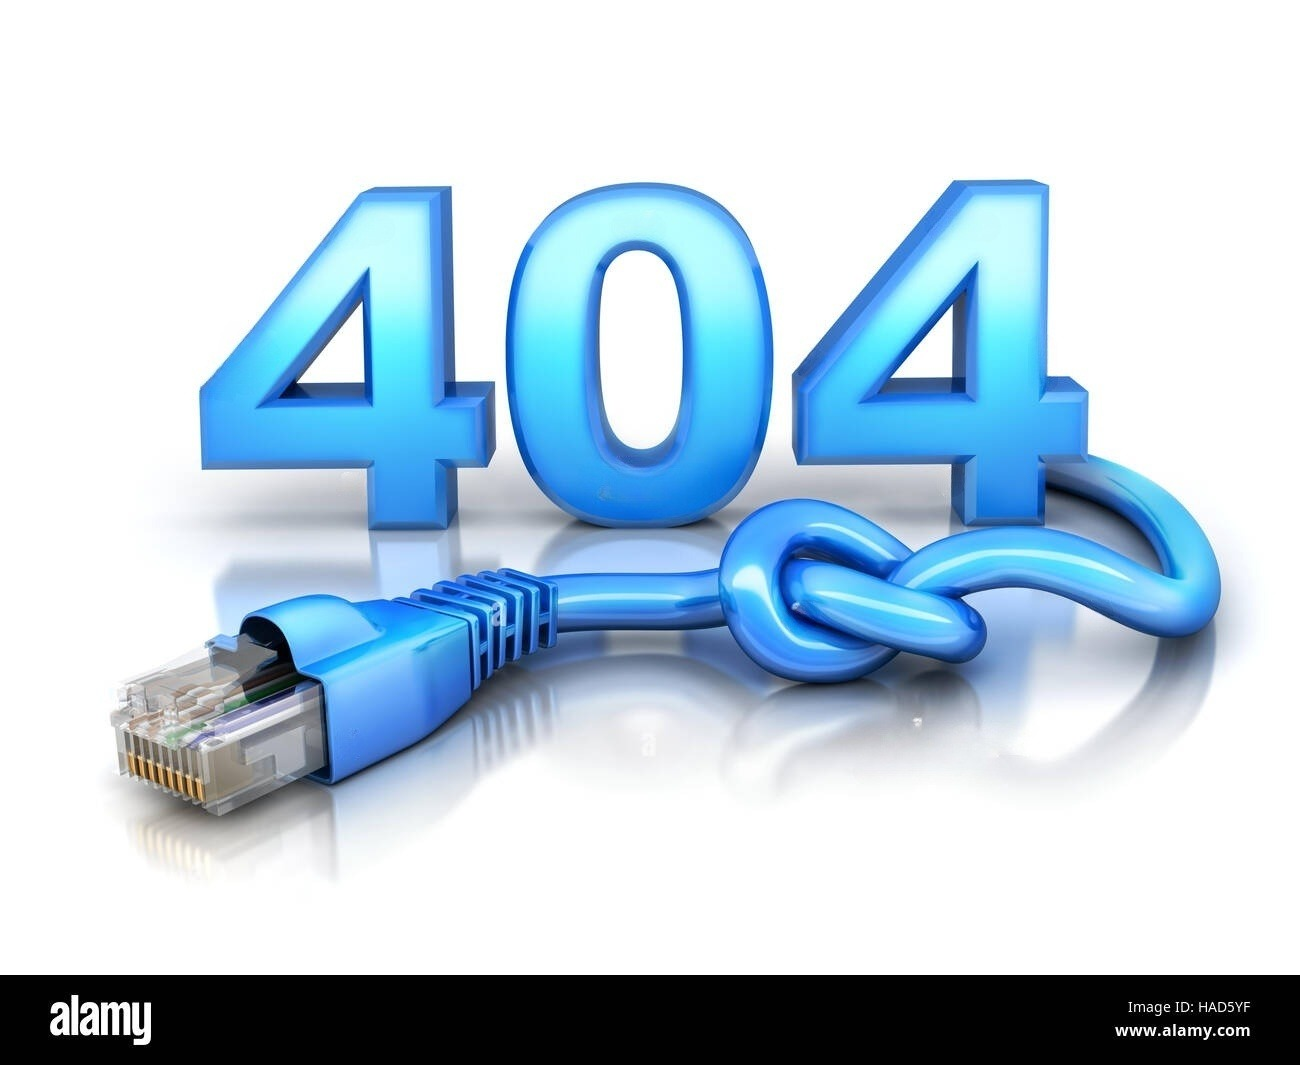
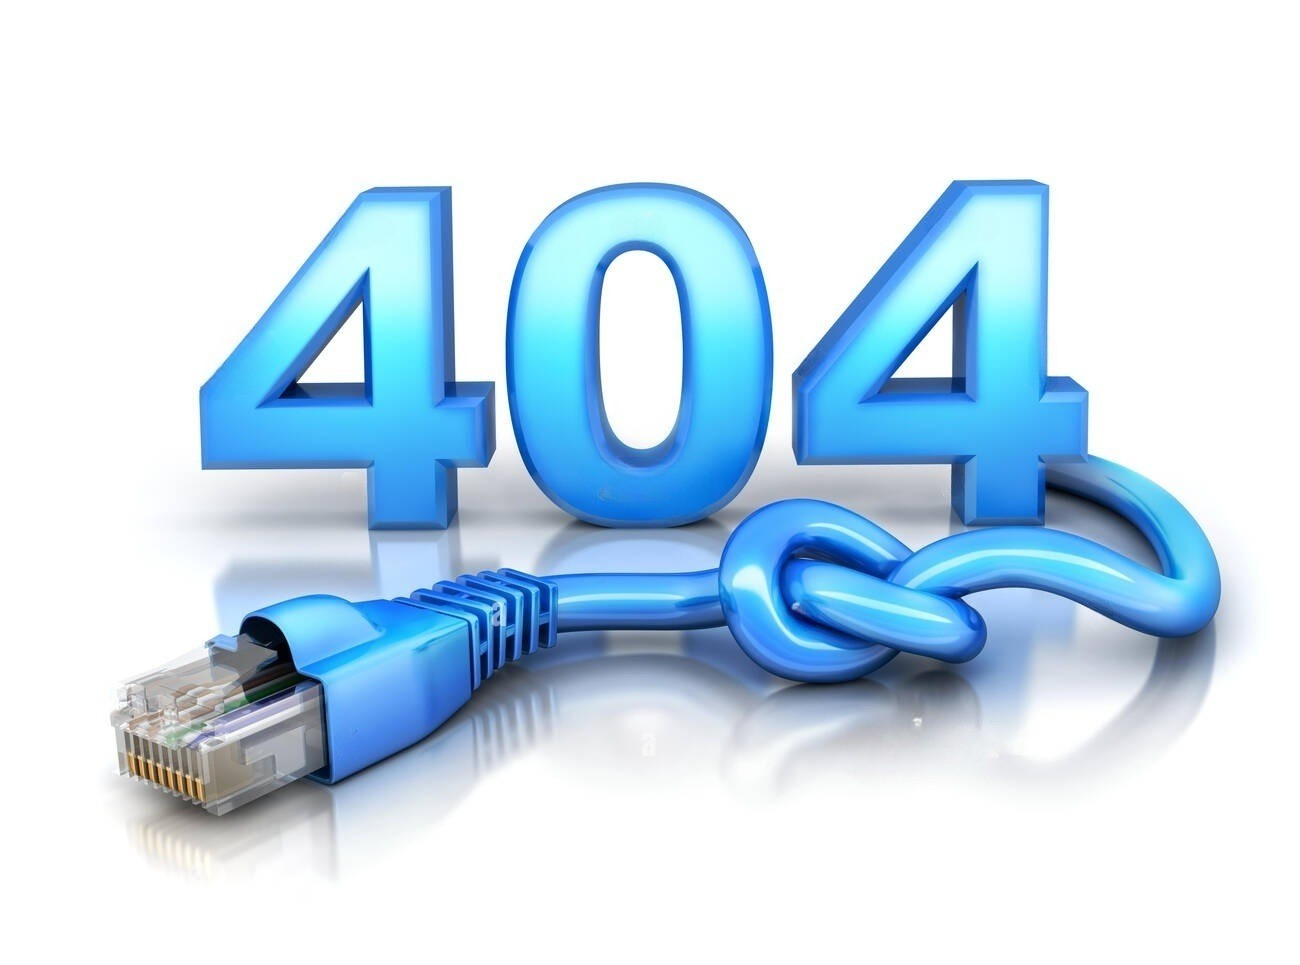
404

diff --git a/404.html b/404.html
@@ -26,7 +26,7 @@
 <div class="container">
 
 <p>La page atendu n'existe pas</p>
-  <img src="404.jpg" />
+  <img src="404.jpg" height="250" width="250" />
 
 
 </div>
